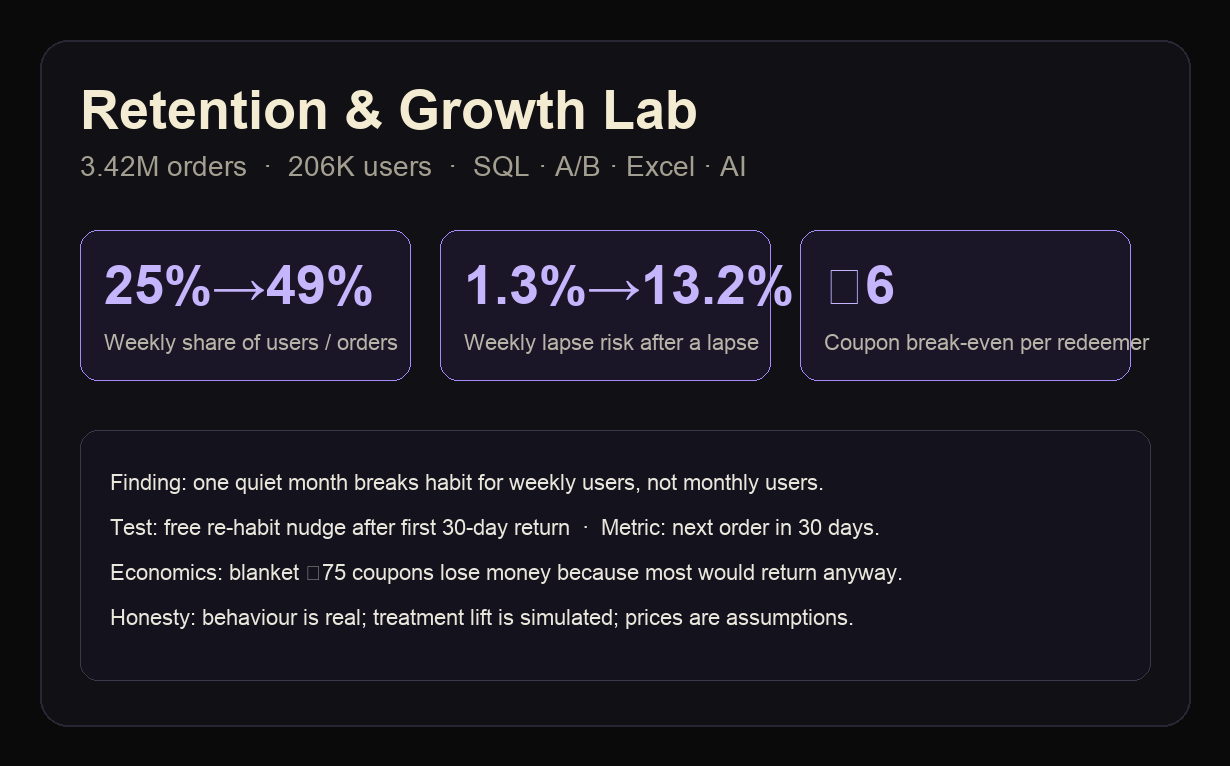
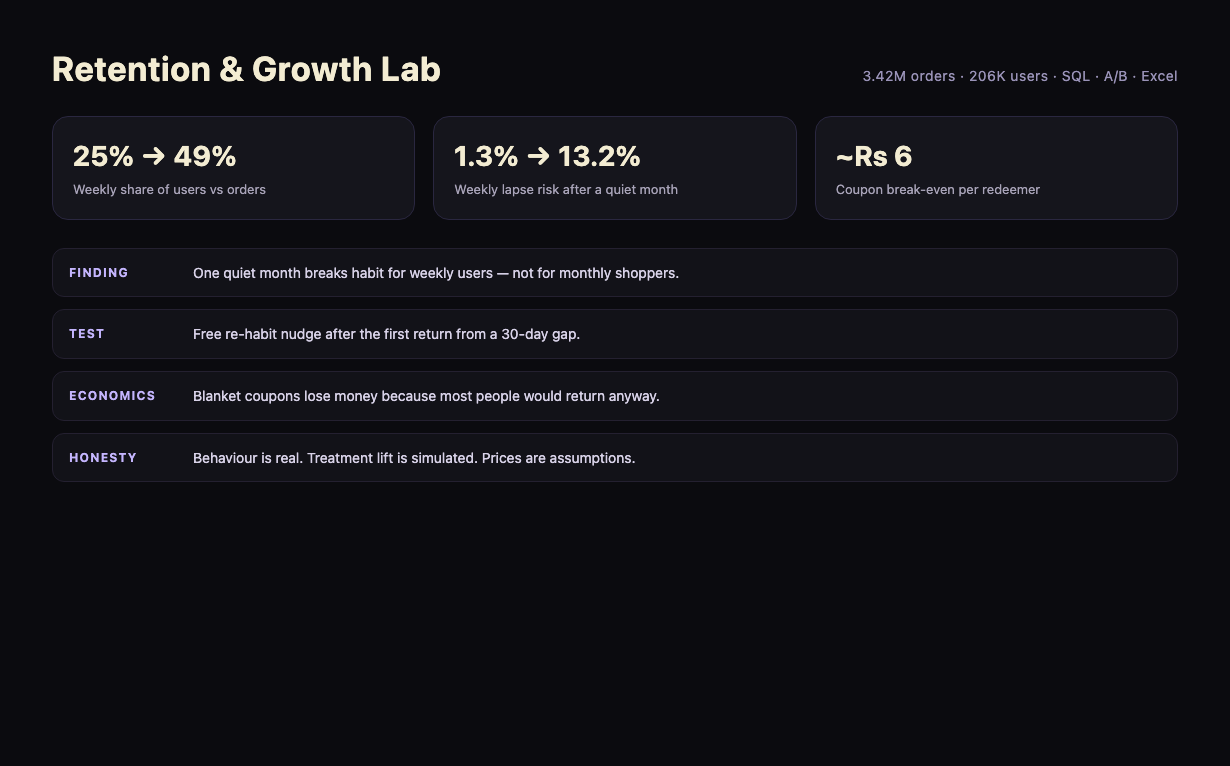
Simplify the Growth Lab project section.
Drop the dense accordion and duplicate stats; refresh the laptop shot without broken currency glyphs.

diff --git a/index.html b/index.html
@@ -572,51 +572,23 @@
           </div>
 
           <div class="project__copy">
-            <p class="project__intro reveal">When a food-delivery user goes quiet for a month — are they leaving, or just shopping that way? I answered that on <strong>3.42 million real Instacart orders</strong> with SQL, then designed the first win-back test and checked whether a coupon would pay back.</p>
+            <p class="project__intro reveal">When a grocery user goes quiet for a month — are they leaving, or just shopping that way? I used SQL on <strong>3.42M real Instacart orders</strong> to find who is actually at risk, design a win-back A/B test, and check if a coupon would pay back.</p>
 
-            <div class="findings reveal" data-delay="60" aria-label="Key findings">
-              <div class="finding">
-                <strong>25% → 49%</strong>
-                <span>Weekly users are a quarter of people and half of orders</span>
-              </div>
-              <div class="finding">
-                <strong>1.3% → 13.2%</strong>
-                <span>After one quiet month, weekly users lapse again ~10× more</span>
-              </div>
-              <div class="finding">
-                <strong>~₹6 break-even</strong>
-                <span>Blanket coupons lose money — most people return anyway</span>
-              </div>
+            <ul class="impact impact--tight reveal" data-delay="80">
+              <li>Weekly habit users drive ~half the orders — and break after one quiet month</li>
+              <li>First test should be a free nudge, not a blanket coupon</li>
+              <li>Order behaviour is real; campaign lift and money figures are labeled assumptions</li>
+            </ul>
+
+            <ul class="stack reveal" data-delay="120">
+              <li>Python</li><li>SQL</li><li>Streamlit</li><li>Excel</li><li>A/B design</li>
+            </ul>
+
+            <div class="project__flow reveal" data-delay="160" aria-label="Pipeline">
+              <span>Orders</span><i></i><span>SQL segments</span><i></i><span>A/B design</span><i></i><span>Unit economics</span><i></i><span>Decision</span>
             </div>
 
-            <div class="accordion reveal" data-delay="100">
-              <details open>
-                <summary data-cursor="hover">What I built</summary>
-                <p>A full retention pipeline: SQL segments and lapse risk, an A/B experiment design (sample size, readout, guardrails), an Excel unit-economics model (LTV / CAC / coupon ROI), and a Streamlit dashboard. Same idea as CRM win-back — but with evidence before spend.</p>
-              </details>
-              <details open>
-                <summary data-cursor="hover">Stack</summary>
-                <ul class="stack"><li>Python</li><li>SQL (DuckDB)</li><li>Streamlit</li><li>Excel</li><li>A/B design</li></ul>
-              </details>
-              <details open>
-                <summary data-cursor="hover">My part</summary>
-                <p>I built clean fact tables, the analyses, sample sizing, a simulated A/B readout on real control outcomes, and the money model. <strong>Behaviour is real. Treatment lift is simulated. Rupee figures are assumptions.</strong></p>
-              </details>
-              <details open>
-                <summary data-cursor="hover">Impact</summary>
-                <ul class="impact">
-                  <li>Target win-back at frequent users right after their first lapse — not every quiet user</li>
-                  <li>Test a free nudge before a blanket coupon</li>
-                  <li>Clear line between real behaviour and simulated campaign results</li>
-                </ul>
-              </details>
-            </div>
-
-            <div class="project__flow reveal" data-delay="200" aria-label="Pipeline">
-              <span>Orders</span><i></i><span>SQL segments</span><i></i><span>A/B design</span><i></i><span>Unit economics</span><i></i><span>Decision memo</span>
-            </div>
-
-            <div class="project__links reveal" data-delay="260">
+            <div class="project__links reveal" data-delay="200">
               <a class="btn btn--ghost magnetic" href="https://github.com/yogesh-labs108/retention-growth-lab" target="_blank" rel="noopener" data-cursor="hover"><span>View on GitHub ↗</span></a>
               <a class="btn btn--ghost magnetic" href="https://github.com/yogesh-labs108/retention-growth-lab/blob/main/docs/memo.md" target="_blank" rel="noopener" data-cursor="hover"><span>Decision memo</span></a>
             </div>

diff --git a/css/styles.css b/css/styles.css
@@ -920,11 +920,15 @@ main { position: relative; z-index: 1; }
   font-size: .72rem; letter-spacing: .06em; text-transform: uppercase;
   padding: 7px 12px; border-radius: 999px; background: var(--cream); color: #0a0a0a; font-weight: 600;
 }
-.impact li { position: relative; padding-left: 22px; margin-bottom: 8px; }
+.impact { margin: 0 0 18px; padding: 0; list-style: none; }
+.impact li { position: relative; padding-left: 22px; margin-bottom: 8px; color: var(--text-dim); font-size: .94rem; line-height: 1.45; }
 .impact li::before {
   content: ""; position: absolute; left: 0; top: .55em; width: 10px; height: 10px; border-radius: 50%;
   background: var(--violet); box-shadow: 0 0 12px var(--violet);
 }
+.impact--tight { margin: 0 0 20px; }
+.impact--tight li { margin-bottom: 10px; }
+.project__copy > .stack { margin: 0 0 22px; }
 
 /* Pipeline flow */
 .project__flow {
